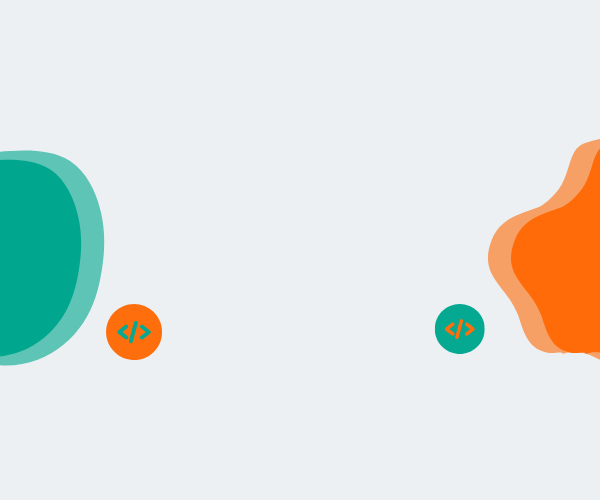
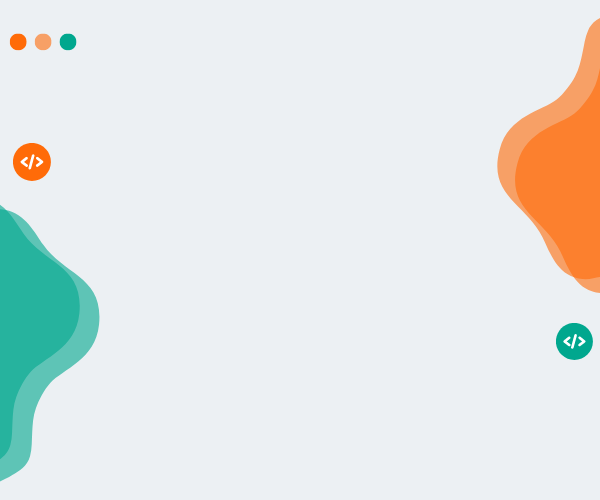
added profile picture

diff --git a/src/components/Main.jsx b/src/components/Main.jsx
@@ -3,6 +3,8 @@ import React from "react";
 import { motion } from "framer-motion";
 import { MyLinks } from "./data/Data";
 import { HiOutlineChevronDoubleDown } from "react-icons/hi";
+import ProfilePic from "../../public/assets/profile-picture/seb.png";
+import Image from "next/image";
 
 export const Main = () => {
   return (
@@ -12,42 +14,71 @@ export const Main = () => {
     >
       <div className="home-wrapper max-w-[1240px] w-full h-full m-auto p-2 flex justify-center items-center">
         <div>
-          <h1 className="px-2 justify-center font-normal  text-[24px] md:text-[35px] ">
-            <motion.span
-              className="font-medium -scroll-mb-4"
-              initial={{ opacity: 0 }}
-              whileInView={{ opacity: 1 }}
-              transition={{ duration: 1 }}
-            >
-              Hi! I'm
-            </motion.span>
-            <motion.span
-              className="font-bold text-[#00a78e]  text-[26px] md:text-[38px] "
+          <div className="flex items-center flex-col lmd:flex-row  ">
+            <motion.div
               initial={{ opacity: 0 }}
               whileInView={{ opacity: 1 }}
               transition={{
                 type: "spring",
                 bounce: 1,
-                delay: 0.5,
+                delay: 0.7,
                 duration: 2,
               }}
             >
-              {" "}
-              Sebastine
-            </motion.span>
-          </h1>
-          <motion.p
-            initial={{ opacity: 0 }}
-            whileInView={{ opacity: 1 }}
-            transition={{ delay: 2 }}
-            viewport={{ once: true }}
-            className=" text-gray-600  font-semibold xxs:mt-8 sm:mt-2 sm:text-orange-400 sm:text-[20px] md:text-[24px] lg:text[28px] sm:py-1 lg:py-2 tracking-wide text-lg"
-          >
-            I'm a Front-end Web Developer <br />
-            <span className="text-black sm:text-[16px] md:text-[20px] lg:text[24px] pt-4">
-              (Javascript, Typescript, NextJS){" "}
-            </span>
-          </motion.p>
+              <Image
+                src={ProfilePic}
+                alt="Sebastine's picture"
+                width={150}
+                height={100}
+                className="profile-pic mr-0 md:mr-6 mb-4 lmd:mb-0"
+              />
+            </motion.div>
+            <div>
+              <h1 className="px-2 font-normal  text-[24px] md:text-[35px] ">
+                <motion.span
+                  className="font-medium -scroll-mb-4"
+                  initial={{ opacity: 0 }}
+                  whileInView={{ opacity: 1 }}
+                  transition={{ duration: 1 }}
+                >
+                  Hi! I'm
+                </motion.span>
+                <motion.span
+                  className="font-bold text-[#00a78e]  text-[26px] md:text-[38px] "
+                  initial={{ opacity: 0 }}
+                  whileInView={{ opacity: 1 }}
+                  transition={{
+                    type: "spring",
+                    bounce: 1,
+                    delay: 0.5,
+                    duration: 2,
+                  }}
+                >
+                  {" "}
+                  Sebastine
+                </motion.span>
+              </h1>
+
+              <motion.p
+                initial={{ opacity: 0 }}
+                whileInView={{ opacity: 1 }}
+                transition={{ delay: 2 }}
+                viewport={{ once: true }}
+                className=" text-gray-600  font-semibold xxs:mt-8 sm:mt-2 sm:text-orange-400 sm:text-[20px] md:text-[24px] lg:text[28px] sm:py-1 lg:py-2 tracking-wide text-lg"
+              >
+                I'm a Front-end Web Developer <br />
+              </motion.p>
+              <motion.p
+                initial={{ opacity: 0 }}
+                whileInView={{ opacity: 1 }}
+                transition={{ delay: 2 }}
+                viewport={{ once: true }}
+                className="text-black font-semibold sm:text-[16px] md:text-[20px] lg:text[24px] "
+              >
+                (Javascript, Typescript, ReactJS, NextJS){" "}
+              </motion.p>
+            </div>
+          </div>
 
           <motion.p
             initial={{ opacity: 0 }}
@@ -93,6 +124,8 @@ export const Main = () => {
           </motion.div>
         </div>
       </div>
+
+      {/* Scroll-down  indicator */}
       <div className=" absolute max-w-[30] right-[10vw] xxs:top-[80vh]  sm:top-[550px] z-10">
         <motion.div
           initial={{ y: 0, opacity: 0 }}

diff --git a/styles/globals.css b/styles/globals.css
@@ -86,11 +86,17 @@ textarea:focus::placeholder {
 }
 
 #home {
-  background-image: url("../public/assets/background/main-bg.png");
+  background-image: url("../public/assets/background/main-bg2.png");
   background-size: cover;
   background-position: bottom;
   background-repeat: no-repeat;
   /* background-size: 100% auto; */
+}
+
+.profile-pic {
+  background-color: #ff6b08;
+  padding-left: 15px;
+  box-shadow: -10px 10px #00a78e;
 }
 
 @media (min-height: 1365px) {
@@ -111,7 +117,7 @@ textarea:focus::placeholder {
 
 @media (max-width: 913px) {
   #home {
-    background-image: url("../public/assets/background/main-sm-bg2.png");
+    background-image: url("../public/assets/background/main-sm-bg.png");
     background-size: contain;
     background-position: center;
     background-repeat: no-repeat;

diff --git a/tailwind.config.js b/tailwind.config.js
@@ -29,6 +29,8 @@ module.exports = {
 
       md: "768px",
       // => @media (min-width: 768px) { ... }
+      lmd: "822px",
+      // => @media (min-width: 822px) { ... }
 
       lg: "1024px",
       // => @media (min-width: 1024px) { ... }

diff --git a/README.md b/README.md
@@ -1,9 +1,12 @@
-# Sebastine Ogu portfolio website
+## Sebastine Ogu portfolio website
 
-## Description
+# Description
 
 - I built this website to showcase my skills to the world. Although it does showcase what i can do, it is just a tip of the iceberg. It is currently hosted on [Sebastine](https://sebastine-ogu.vercel.app/).
 
-\*\* Technologies used include:
+# Technologies used include:
 
-1. [NextJs](https://nextjs.org/) for its adaptability and responsiveness, improved SEO on the react library a faster development process, and better image optimisation. The Pages router was used. 2.[Tailwindcss](https://tailwindcss.com/) for easy styling. 3.[Framer-motion](https://www.framer.com/motion/) for animations with performance across the website. 4. [Gilroy font-family](https://www.dafontfree.io/gilroy-font-family/.)
+1. [NextJs](https://nextjs.org/) for its adaptability and responsiveness, improved SEO on the react library, a faster development process, and better image optimisation. The Pages router was used.
+ 2.[Tailwindcss](https://tailwindcss.com/) for easy styling. 
+ 3.[Framer-motion](https://www.framer.com/motion/) for animations with performance across the website. 
+ 4. [Gilroy font-family](https://www.dafontfree.io/gilroy-font-family/.)
